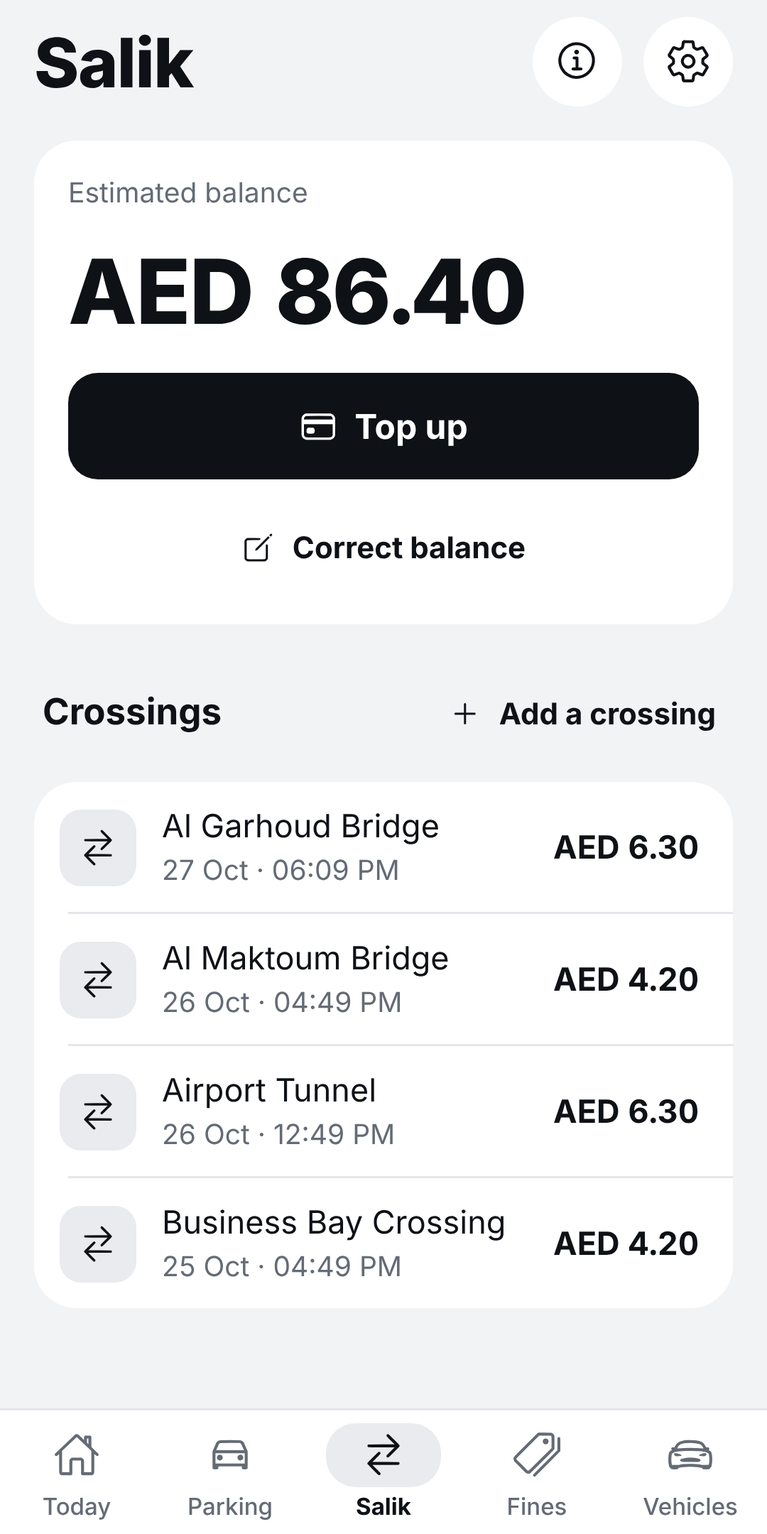
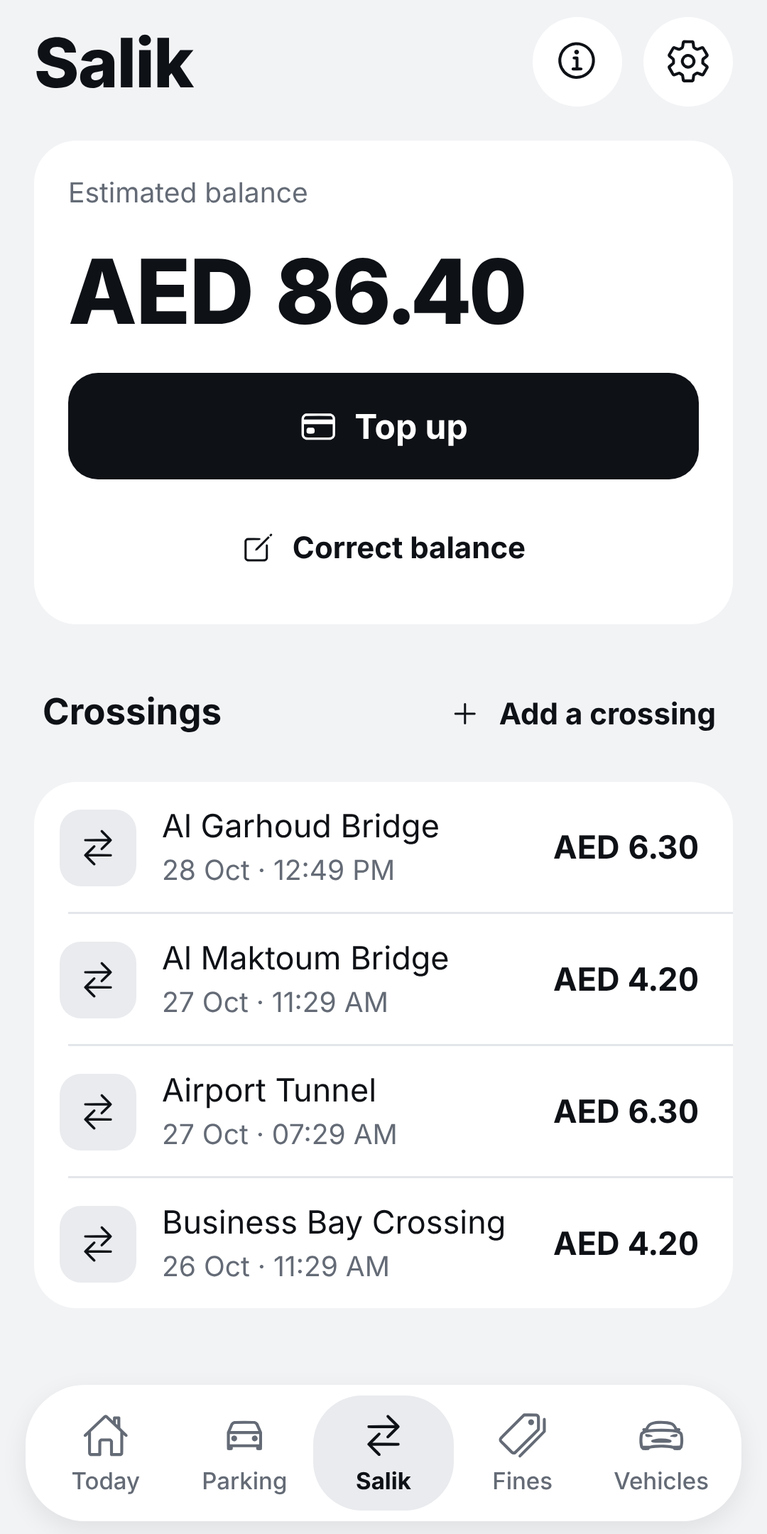
Parking ticket card with live countdown, emirate tiles, floating tab bar
- Ticket card (Today and Parking): the emirate's coloured ticket icon,
  status pill, date and time, duration, zone, the car's plate, a live
  countdown to the end of the paid time (red in the last 10 minutes),
  a reminder to check the confirmation SMS, and the actions
- The paid time's start and hours are now saved with the ticket
- Parking: emirates as coloured tiles with the name in the app's
  language plus Arabic/English, instead of a scrolling row of chips
- Floating, rounded tab bar with the selected tab on a pill
- New strings in all 5 languages; store screenshots retaken;
  100/100 simulated users pass

Claude-Session: https://claude.ai/code/session_01QpM3jHj4oDpnDvTdyP6fXG

diff --git a/src/i18n-campaigns.js b/src/i18n-campaigns.js
@@ -1,6 +1,7 @@
 // Strings added after the first release candidate: fine campaigns, appearance, onboarding steps, Salik gate names.
 export const CAMPAIGN_STRINGS = {
 en: {
+  activeTicket: 'Active ticket', ticketEndsIn: 'Ticket ends in', ticketEnded: 'Ticket ended', forHours: 'For {n} h', checkSms: 'Make sure you get the confirmation SMS from the parking authority.', chooseEmirate: 'Where are you parking?',
   'gate_garhoud': "Al Garhoud Bridge", 'gate_maktoum': "Al Maktoum Bridge", 'gate_airport': "Airport Tunnel", 'gate_mamzar-s': "Al Mamzar South", 'gate_mamzar-n': "Al Mamzar North", 'gate_safa-n': "Al Safa North", 'gate_safa-s': "Al Safa South", 'gate_barsha': "Al Barsha", 'gate_jebelali': "Jebel Ali", 'gate_businessbay': "Business Bay Crossing",
   salikAskT: "What's your Salik balance?", salikAskB: 'Check it in the Salik app and type it here. Parking+ then takes off each crossing it detects.', addBalance: 'Add balance', fixBal: 'Correct balance', next: 'Next', back: 'Back', notNow: 'Not now', stepOf: 'Step {n} of {total}',
   bgAndroidT: 'One more step', bgAndroidB: 'On the next screen, choose "Allow all the time", then go back to Parking+. Without it, parking and Salik detection stop when the app is closed.', trackBody: 'Watching for parking and Salik gates', notifOffT: 'Notifications are off', notifOffB: "You won't get parking, Salik or fine discount reminders until you allow notifications.", battT: 'Keep running in the background', battB: 'Some phones stop apps to save battery. Choose "Don\'t optimise" or "Unrestricted" for Parking+.',
@@ -18,6 +19,7 @@ en: {
   privacyShort: 'Your location, vehicles and fines stay on this phone. Parking+ has no servers. It only downloads a public list of fine discount campaigns, and sends nothing about you.',
 },
 ar: {
+  activeTicket: 'تذكرة حالية', ticketEndsIn: 'تنتهي التذكرة خلال', ticketEnded: 'انتهت التذكرة', forHours: 'لمدة {n} ساعة', checkSms: 'تأكد من وصول رسالة التأكيد النصية من جهة المواقف.', chooseEmirate: 'أين توقفت؟',
   'gate_garhoud': "جسر القرهود", 'gate_maktoum': "جسر آل مكتوم", 'gate_airport': "نفق المطار", 'gate_mamzar-s': "الممزر الجنوبي", 'gate_mamzar-n': "الممزر الشمالي", 'gate_safa-n': "الصفا الشمالي", 'gate_safa-s': "الصفا الجنوبي", 'gate_barsha': "البرشاء", 'gate_jebelali': "جبل علي", 'gate_businessbay': "معبر الخليج التجاري",
   salikAskT: 'كم رصيدك في سالك؟', salikAskB: 'تحقق منه في تطبيق سالك واكتبه هنا. بعدها يخصم التطبيق كل عبور يرصده.', addBalance: 'أضف الرصيد', fixBal: 'تصحيح الرصيد', next: 'التالي', back: 'رجوع', notNow: 'ليس الآن', stepOf: 'الخطوة {n} من {total}',
   bgAndroidT: 'خطوة أخيرة', bgAndroidB: 'في الشاشة التالية اختر "السماح طوال الوقت" ثم عد إلى التطبيق. بدون ذلك يتوقف رصد المواقف وسالك عند إغلاق التطبيق.', trackBody: 'يراقب المواقف وبوابات سالك', notifOffT: 'الإشعارات متوقفة', notifOffB: 'لن تصلك تذكيرات المواقف وسالك وتخفيضات المخالفات حتى تسمح بالإشعارات.', battT: 'استمرار العمل في الخلفية', battB: 'بعض الهواتف توقف التطبيقات لتوفير البطارية. اختر "عدم التحسين" أو "غير مقيد" لتطبيق مواقف+.',
@@ -35,6 +37,7 @@ ar: {
   privacyShort: 'موقعك ومركباتك ومخالفاتك تبقى على هذا الهاتف. لا يملك التطبيق خوادم، وكل ما يفعله هو تنزيل قائمة عامة بحملات تخفيض المخالفات، ولا يرسل أي بيانات عنك.',
 },
 hi: {
+  activeTicket: 'चालू टिकट', ticketEndsIn: 'टिकट खत्म होगा', ticketEnded: 'टिकट खत्म हो गया', forHours: '{n} घंटे के लिए', checkSms: 'पक्का करें कि पार्किंग प्राधिकरण से पुष्टि SMS आया है।', chooseEmirate: 'आप कहाँ पार्क कर रहे हैं?',
   'gate_garhoud': "अल गढ़ूद ब्रिज", 'gate_maktoum': "अल मकतूम ब्रिज", 'gate_airport': "एयरपोर्ट टनल", 'gate_mamzar-s': "अल मम्ज़र दक्षिण", 'gate_mamzar-n': "अल मम्ज़र उत्तर", 'gate_safa-n': "अल सफ़ा उत्तर", 'gate_safa-s': "अल सफ़ा दक्षिण", 'gate_barsha': "अल बरशा", 'gate_jebelali': "जेबेल अली", 'gate_businessbay': "बिज़नेस बे क्रॉसिंग",
   salikAskT: 'आपका Salik बैलेंस कितना है?', salikAskB: 'इसे Salik ऐप में देखें और यहाँ लिखें। फिर Parking+ हर पहचाने गए क्रॉसिंग को घटा देगा।', addBalance: 'बैलेंस जोड़ें', fixBal: 'बैलेंस ठीक करें', next: 'आगे', back: 'वापस', notNow: 'अभी नहीं', stepOf: 'चरण {n} / {total}',
   bgAndroidT: 'एक और कदम', bgAndroidB: 'अगली स्क्रीन पर "हर समय अनुमति दें" चुनें, फिर Parking+ पर लौटें। इसके बिना ऐप बंद होने पर पार्किंग और Salik की पहचान रुक जाती है।', trackBody: 'पार्किंग और Salik गेट पर नज़र', notifOffT: 'सूचनाएँ बंद हैं', notifOffB: 'सूचनाओं की अनुमति देने तक आपको पार्किंग, Salik या जुर्माना छूट के रिमाइंडर नहीं मिलेंगे।', battT: 'बैकग्राउंड में चलते रहें', battB: 'कुछ फ़ोन बैटरी बचाने के लिए ऐप बंद कर देते हैं। Parking+ के लिए "ऑप्टिमाइज़ न करें" या "अप्रतिबंधित" चुनें।',
@@ -52,6 +55,7 @@ hi: {
   privacyShort: 'आपकी लोकेशन, वाहन और जुर्माने इसी फ़ोन पर रहते हैं। Parking+ का कोई सर्वर नहीं है। यह सिर्फ़ जुर्माना छूट अभियानों की एक सार्वजनिक सूची डाउनलोड करता है और आपके बारे में कुछ नहीं भेजता।',
 },
 zh: {
+  activeTicket: '当前停车票', ticketEndsIn: '停车票剩余', ticketEnded: '停车票已到期', forHours: '{n} 小时', checkSms: '请确认已收到停车管理部门的确认短信。', chooseEmirate: '您在哪里停车？',
   'gate_garhoud': "加尔胡德桥", 'gate_maktoum': "马克图姆桥", 'gate_airport': "机场隧道", 'gate_mamzar-s': "马姆扎尔南", 'gate_mamzar-n': "马姆扎尔北", 'gate_safa-n': "萨法北", 'gate_safa-s': "萨法南", 'gate_barsha': "巴尔沙", 'gate_jebelali': "杰贝阿里", 'gate_businessbay': "商业湾跨河通道",
   salikAskT: '您的 Salik 余额是多少？', salikAskB: '请在 Salik 应用中查看并在此输入。之后 Parking+ 会扣除检测到的每次通行。', addBalance: '添加余额', fixBal: '更正余额', next: '下一步', back: '返回', notNow: '暂不', stepOf: '第 {n} 步，共 {total} 步',
   bgAndroidT: '还差一步', bgAndroidB: '在下一个页面选择“始终允许”，然后返回 Parking+。否则应用关闭后将无法检测停车和 Salik。', trackBody: '正在关注停车和 Salik 收费站', notifOffT: '通知已关闭', notifOffB: '在允许通知之前，您不会收到停车、Salik 或罚单折扣提醒。', battT: '保持后台运行', battB: '有些手机会为省电而停止应用。请为 Parking+ 选择“不优化”或“无限制”。',
@@ -69,6 +73,7 @@ zh: {
   privacyShort: '您的位置、车辆和罚单仅保存在本手机上。Parking+ 没有服务器，只会下载一份公开的罚单折扣活动列表，不会发送任何关于您的信息。',
 },
 ru: {
+  activeTicket: 'Действующий билет', ticketEndsIn: 'Билет закончится через', ticketEnded: 'Билет закончился', forHours: 'На {n} ч', checkSms: 'Убедитесь, что пришло SMS-подтверждение от парковочной службы.', chooseEmirate: 'Где вы паркуетесь?',
   'gate_garhoud': "Мост Аль-Гаруд", 'gate_maktoum': "Мост Аль-Мактум", 'gate_airport': "Тоннель аэропорта", 'gate_mamzar-s': "Аль-Мамзар (юг)", 'gate_mamzar-n': "Аль-Мамзар (север)", 'gate_safa-n': "Аль-Сафа (север)", 'gate_safa-s': "Аль-Сафа (юг)", 'gate_barsha': "Аль-Барша", 'gate_jebelali': "Джебель-Али", 'gate_businessbay': "Переправа Бизнес-Бей",
   salikAskT: 'Какой у вас баланс Salik?', salikAskB: 'Посмотрите его в приложении Salik и введите здесь. Затем Parking+ будет вычитать каждый замеченный проезд.', addBalance: 'Добавить баланс', fixBal: 'Исправить баланс', next: 'Далее', back: 'Назад', notNow: 'Не сейчас', stepOf: 'Шаг {n} из {total}',
   bgAndroidT: 'Ещё один шаг', bgAndroidB: 'На следующем экране выберите «Разрешить в любом режиме», затем вернитесь в Parking+. Без этого парковка и Salik не отслеживаются, когда приложение закрыто.', trackBody: 'Отслеживание парковки и ворот Salik', notifOffT: 'Уведомления выключены', notifOffB: 'Пока вы не разрешите уведомления, напоминаний о парковке, Salik и скидках на штрафы не будет.', battT: 'Работа в фоне', battB: 'Некоторые телефоны останавливают приложения ради экономии батареи. Выберите для Parking+ «Не оптимизировать» или «Без ограничений».',

diff --git a/src/screens.js b/src/screens.js
@@ -1,7 +1,7 @@
 import React, { useEffect, useState } from 'react';
 import { ScrollView, View, Text, Pressable, Modal, Linking, Alert, AppState, Platform } from 'react-native';
 import { useStore, update, newId } from './store';
-import { t, emName, hrsOf, fmtDate, fmtTime, LANGS, getLang, gateName } from './i18n';
+import { t, T, emName, hrsOf, fmtDate, fmtTime, LANGS, getLang, gateName } from './i18n';
 import { EMIRATES, EM_ORDER, ISSUERS, GATES, BRANDS, aed, buildSms, cleanCode, ZONE_RE, fineOffer, discounted, daysLeft,
   validateVehicle, parseDate, emirateAt, distanceM, crossingCharge, latinDigits, visibleCampaigns, campaignStatus, campaignEnd, PAY_URLS } from './data';
 import { Card, Sec, Txt, Figure, Btn, Chip, Segmented, Toggle, Pill, List, ListRow, Field, Wrap, Notice, Warn, BrandBadge, Bubble, Progress, Icon,
@@ -171,7 +171,7 @@ export function TodayScreen({ go }) {
         </Card>
       )}
 
-      <Card tone={s.parking?.status === 'awaiting' ? 'danger' : undefined}><ParkingStatus go={go} /></Card>
+      <ParkingStatus go={go} />
 
       <View style={{ flexDirection: 'row', gap: 12 }}>
         <Card onPress={() => go('salik')} style={{ flex: 1, minWidth: 0 }} tone={balTone}>
@@ -200,37 +200,103 @@ export function TodayScreen({ go }) {
   );
 }
 
+// Each emirate's colour, used for its parking ticket icon and tile
+export const EM_COLORS = { AUH: '#3aa6c2', DXB: '#2f5fd0', SHJ: '#e0a72e', AJM: '#8a6d45', RAK: '#c4473c', FUJ: '#2f9467', UAQ: '#7357c9' };
+
+// A parking ticket in the emirate's colour, with the P of parking signs
+function TicketIcon({ em, size = 34 }) {
+  return (
+    <View style={{ width: size, height: size, alignItems: 'center', justifyContent: 'center', transform: [{ rotate: '-14deg' }] }}>
+      <Icon name="ticket" size={size} color={EM_COLORS[em] || '#1a56b8'} />
+      <Text style={{ position: 'absolute', color: '#fff', fontWeight: '900', fontSize: size * 0.36 }}>P</Text>
+    </View>
+  );
+}
+
+// Re-renders every second while mounted (live countdown)
+function useNow(active) {
+  const [now, setNow] = useState(Date.now());
+  useEffect(() => { if (!active) return; const id = setInterval(() => setNow(Date.now()), 1000); return () => clearInterval(id); }, [active]);
+  return now;
+}
+const countdown = (ms) => {
+  const s = Math.max(0, Math.floor(ms / 1000)); const h = Math.floor(s / 3600); const m = Math.floor((s % 3600) / 60); const sec = s % 60;
+  const p2 = (n) => String(n).padStart(2, '0');
+  return h ? `${h}:${p2(m)}:${p2(sec)}` : `${p2(m)}:${p2(sec)}`;
+};
+
+// The parking ticket: emirate, when, how long, which car, a live countdown, and what to do next
 function ParkingStatus({ go }) {
-  const s = useStore(); const p = s.parking;
+  const s = useStore(); const c = useTheme(); const p = s.parking;
+  const paid = p?.status === 'paid'; const left = paid && p.until ? new Date(p.until).getTime() - Date.now() : 0;
+  useNow(paid && left > 0);
   if (!p) {
     return (
-      <View style={{ gap: 12 }}>
+      <Card>
         <View style={{ flexDirection: 'row', alignItems: 'center', gap: 12 }}>
           <ParkingMark />
           <View style={{ flex: 1, minWidth: 0 }}><Txt bold>{t('parking')}</Txt><Txt muted>{t('notParked')}</Txt></View>
         </View>
         <Btn icon="chatbubble-ellipses-outline" title={t('payBySms')} onPress={() => go('parking')} />
-      </View>
+      </Card>
     );
   }
+  const v = s.vehicles.find((x) => x.id === s.defaultVeh) || s.vehicles[0];
+  const since = p.paidAt || p.start;
+  const Line = ({ icon, children }) => (
+    <View style={{ flexDirection: 'row', alignItems: 'center', gap: 10 }}><Icon name={icon} size={18} color={c.muted} />{children}</View>
+  );
   return (
-    <View style={{ gap: 12 }}>
-      <View style={{ flexDirection: 'row', alignItems: 'center', gap: 12 }}>
-        <ParkingMark />
-        <View style={{ flex: 1, minWidth: 0, gap: 4 }}>
-          <Txt bold>{t('parkedAt', { time: fmtTime(p.start), em: emName(p.em) })}</Txt>
-          {p.status === 'paid' ? <Pill tone="ok" text={t('paidUntil', { time: fmtTime(p.until) })} /> : p.status === 'free' ? <Pill text={t('freeSpot')} /> : <Pill tone="danger" text={t('notPaid')} />}
-        </View>
+    <Card style={{ padding: 0, gap: 0, overflow: 'hidden' }}>
+      <View style={{ flexDirection: 'row', alignItems: 'center', gap: 10, paddingHorizontal: 16, paddingVertical: 12, borderBottomWidth: 1, borderColor: c.line }}>
+        <TicketIcon em={p.em} size={30} />
+        <Txt bold style={{ flex: 1 }} numberOfLines={1}>{t('parking')} · {emName(p.em)}</Txt>
+        {paid ? <Pill tone={left > 0 ? 'ok' : 'danger'} text={left > 0 ? t('activeTicket') : t('ticketEnded')} />
+          : p.status === 'free' ? <Pill text={t('freeSpot')} /> : <Pill tone="danger" text={t('notPaid')} />}
       </View>
-      {p.zone ? <Txt muted>{p.zone}</Txt> : null}
-      <Wrap>
-        {p.status === 'awaiting' ? <><Btn small title={t('payNow')} onPress={() => go('parking')} /><Btn ghost small title={t('freeHere')} onPress={A.markFreeHere} /></> : null}
-        {p.status === 'paid' ? <Btn ghost small title={t('extend')} onPress={() => go('parking')} /> : null}
-        <Btn plain small title={t('removeTicket')} onPress={A.removeParkingTicket} />
-      </Wrap>
+      <View style={{ padding: 16, gap: 10 }}>
+        <Line icon="calendar-outline"><Txt>{fmtDate(since)} · {fmtTime(since)}</Txt></Line>
+        {paid && p.hours ? <Line icon="time-outline"><Txt>{t('forHours', { n: p.hours })}</Txt></Line> : null}
+        {p.zone ? <Line icon="location-outline"><Txt>{p.zone}</Txt></Line> : null}
+        {v ? <Line icon="car-outline"><Plate v={v} width={150} /></Line> : null}
+        {paid && left > 0 ? (
+          <View style={{ marginTop: 4 }}>
+            <Txt muted>{t('ticketEndsIn')}</Txt>
+            <Figure size={44} color={left < 10 * 60e3 ? c.red : c.fg}>{countdown(left)}</Figure>
+          </View>
+        ) : null}
+        {paid ? <Notice icon="chatbubble-ellipses-outline">{t('checkSms')}</Notice> : null}
+        <Wrap>
+          {p.status === 'awaiting' ? <><Btn small title={t('payNow')} onPress={() => go('parking')} /><Btn ghost small title={t('freeHere')} onPress={A.markFreeHere} /></> : null}
+          {paid ? <Btn ghost small icon="add" title={t('extend')} onPress={() => go('parking')} /> : null}
+          <Btn plain small title={t('removeTicket')} onPress={A.removeParkingTicket} />
+        </Wrap>
+      </View>
+    </Card>
+  );
+}
+
+// Emirate picker: a coloured tile per emirate, name in the app's language and the other of Arabic/English
+function EmirateTiles({ value, onChange }) {
+  const c = useTheme();
+  const second = (k) => (getLang() === 'ar' ? T.en['em_' + k] : T.ar['em_' + k]);
+  return (
+    <View style={{ flexDirection: 'row', flexWrap: 'wrap', gap: 10 }}>
+      {EM_ORDER.map((k) => { const on = k === value;
+        return (
+          <Pressable key={k} accessibilityRole="radio" accessibilityState={{ selected: on }} onPress={() => onChange(k)}
+            style={({ pressed }) => ({ flexBasis: '47%', flexGrow: 1, flexDirection: 'row', alignItems: 'center', gap: 10, padding: 12, borderRadius: 18,
+              backgroundColor: on ? EM_COLORS[k] + '22' : c.card, borderWidth: 2, borderColor: on ? EM_COLORS[k] : 'transparent', opacity: pressed ? 0.8 : 1 })}>
+            <TicketIcon em={k} size={30} />
+            <View style={{ flex: 1, minWidth: 0 }}>
+              <Txt bold numberOfLines={1}>{emName(k)}</Txt>
+              <Txt muted size={12} numberOfLines={1}>{second(k)}</Txt>
+            </View>
+          </Pressable>); })}
     </View>
   );
 }
+
 // The blue "P" of UAE parking signs
 function ParkingMark({ size = 40 }) {
   return (
@@ -289,15 +355,14 @@ export function ParkingScreen({ go, prefill }) {
     <Screen>
       <Title k="parking" onSettings={() => go('settings')} />
       <LocationNotice extra="locParkNote" />
-      {s.parking ? <Card tone={s.parking.status === 'awaiting' ? 'danger' : undefined}><ParkingStatus go={go} /></Card> : null}
+      {s.parking ? <ParkingStatus go={go} /> : null}
 
       <View style={{ flexDirection: 'row', alignItems: 'center', gap: 8, paddingHorizontal: 4 }}>
         <Icon name={detected ? 'navigate' : 'location-outline'} size={16} color={c.muted} />
         <Txt muted>{locating ? t('detecting') : !pos ? t('noLocation') : detected ? emName(em) + ' · ' + t('gps') : emName(em)}</Txt>
       </View>
-      <ScrollView horizontal showsHorizontalScrollIndicator={false} contentContainerStyle={{ gap: 8 }}>
-        {EM_ORDER.map((k) => <Chip key={k} title={emName(k)} on={k === em} onPress={() => { setEm(k); const hs = EMIRATES[k].hours; if (hs && !hs.includes(hours)) setHours(hs[0]); }} />)}
-      </ScrollView>
+      <Sec>{t('chooseEmirate')}</Sec>
+      <EmirateTiles value={em} onChange={(k) => { setEm(k); const hs = EMIRATES[k].hours; if (hs && !hs.includes(hours)) setHours(hs[0]); }} />
 
       <Card>
         {s.vehicles.length ? <><Txt muted size={13}>{t('vehicle')}</Txt>

diff --git a/App.js b/App.js
@@ -125,16 +125,18 @@ export default function App() {
               {tab === 'vehicles' && <VehiclesScreen {...screenProps} />}
               {tab === 'settings' && <SettingsScreen {...screenProps} />}
             </View>
-            <SafeAreaView edges={['bottom']} style={{ flexDirection: 'row', borderTopWidth: 0.5, borderColor: c.line, backgroundColor: c.card, paddingTop: 6 }} accessibilityRole="tablist">
-              {TABS.map(([k, icon]) => { const on = tab === k;
-                return (
-                  <Pressable key={k} accessibilityRole="tab" accessibilityState={{ selected: on }} onPress={() => { if (!on) haptic('select'); go(k); }}
-                    style={{ flex: 1, alignItems: 'center', gap: 2, paddingBottom: 6, minHeight: 50 }}>
-                    <View style={{ paddingHorizontal: 16, paddingVertical: 3, borderRadius: 14, backgroundColor: on ? c.chip : 'transparent' }}>
+            {/* Floating tab bar: a rounded bar above the bottom edge; the selected tab sits on a pill */}
+            <SafeAreaView edges={['bottom']} style={{ backgroundColor: c.bg, paddingHorizontal: 12, paddingTop: 6 }}>
+              <View accessibilityRole="tablist" style={{ flexDirection: 'row', backgroundColor: c.card, borderRadius: 28, padding: 5, marginBottom: 6,
+                borderWidth: c.dark ? 1 : 0, borderColor: c.line, shadowColor: '#000', shadowOpacity: c.dark ? 0 : 0.08, shadowRadius: 12, shadowOffset: { width: 0, height: 4 }, elevation: 6 }}>
+                {TABS.map(([k, icon]) => { const on = tab === k;
+                  return (
+                    <Pressable key={k} accessibilityRole="tab" accessibilityState={{ selected: on }} onPress={() => { if (!on) haptic('select'); go(k); }}
+                      style={{ flex: 1, alignItems: 'center', gap: 2, paddingVertical: 7, borderRadius: 23, backgroundColor: on ? c.chip : 'transparent' }}>
                       <Icon name={on ? icon : icon + '-outline'} size={22} color={on ? c.fg : c.muted} />
-                    </View>
-                    <Text numberOfLines={1} maxFontSizeMultiplier={1.3} style={[{ fontSize: 11, fontWeight: on ? '700' : '500', color: on ? c.fg : c.muted }, af]}>{t('tab_' + k)}</Text>
-                  </Pressable>); })}
+                      <Text numberOfLines={1} maxFontSizeMultiplier={1.3} style={[{ fontSize: 11, fontWeight: on ? '700' : '500', color: on ? c.fg : c.muted }, af]}>{t('tab_' + k)}</Text>
+                    </Pressable>); })}
+              </View>
             </SafeAreaView>
             <DisclaimerSheet visible={!!disc} afterPay={!!disc?.afterPay} onClose={() => { const next = disc?.onContinue; setDisc(null); if (next) setTimeout(next, 350); }} />
           </View>

diff --git a/src/actions.js b/src/actions.js
@@ -62,7 +62,7 @@ export async function sendParkingSms({ em, text, hours, zone, lat, lng }) {
   const h = e.hours ? hours : 1;
   const until = new Date(Date.now() + h * 3600e3).toISOString();
   await update((x) => {
-    x.parking = { ...(x.parking || { id: newId(), start: new Date().toISOString(), lat, lng }), em, status: 'paid', zone: e.input === 'zone' ? cleanCode(zone) : null, until };
+    x.parking = { ...(x.parking || { id: newId(), start: new Date().toISOString(), lat, lng }), em, status: 'paid', zone: e.input === 'zone' ? cleanCode(zone) : null, until, paidAt: new Date().toISOString(), hours: h };
     if (e.input === 'zone' && lat != null) {
       x.zones = x.zones.filter((z) => Math.abs(z.lat - lat) > 0.0015 || Math.abs(z.lng - lng) > 0.0015);
       x.zones.push({ lat, lng, zone: cleanCode(zone) });
@@ -75,7 +75,7 @@ export async function sendParkingSms({ em, text, hours, zone, lat, lng }) {
 
 export async function markParkingPaid(hours = 1) {
   const until = new Date(Date.now() + hours * 3600e3).toISOString();
-  await update((x) => { if (x.parking) { x.parking.status = 'paid'; x.parking.until = until; } });
+  await update((x) => { if (x.parking) { x.parking.status = 'paid'; x.parking.until = until; x.parking.paidAt = new Date().toISOString(); x.parking.hours = hours; } });
   await cancelParkCheck();
   await scheduleExpiry(until);
 }

diff --git a/scripts/store-screenshots.js b/scripts/store-screenshots.js
@@ -37,7 +37,7 @@ function state({ lang = 'en', parking = 'paid', appearance = 'light' } = {}) {
       { id: 'c3', gate: 'airport', date: iso(-60 * 30), charge: 6.3, auto: true },
       { id: 'c4', gate: 'businessbay', date: iso(-60 * 50), charge: 4.2, auto: true },
     ],
-    parking: parking === 'paid' ? { id: 'p1', start: iso(-25), lat: DUBAI.latitude, lng: DUBAI.longitude, em: 'DXB', status: 'paid', zone: '335A', until: iso(95) } : null,
+    parking: parking === 'paid' ? { id: 'p1', start: iso(-25), lat: DUBAI.latitude, lng: DUBAI.longitude, em: 'DXB', status: 'paid', zone: '335A', until: iso(95), paidAt: iso(-25), hours: 2 } : null,
     freeSpots: [], zones: [],
     drive: { lastMoving: null, lastLat: null, lastLng: null },
     campaigns: [
